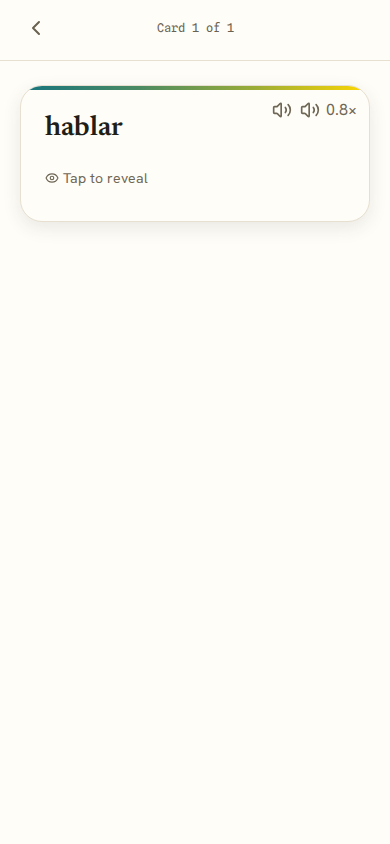
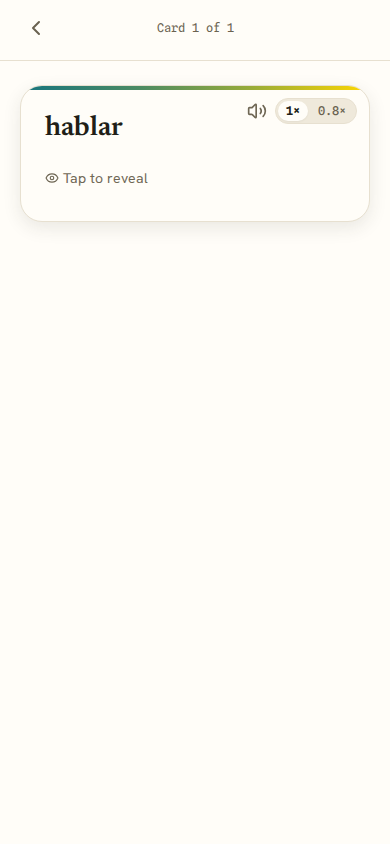
feat(tts): condense review audio to one speaker + 1×/0.8× speed-toggle pill
Replaces the two front play buttons (normal + "0.8×") on the review card with a
single speaker button plus a compact segmented speed-toggle pill (1× / 0.8×) beside
it. The selected speed drives ssmlRate for both the front and back speaker buttons
(0.8× → ssmlRate "slow"). Accessible role="group"/aria-pressed toggle inside the
existing stop-propagation container so it never flips the card. E2E spec + screenshot
updated for the new UI.

Claude-Session: https://claude.ai/code/session_01Mz14x3R1fq89gvNDaDp5Th

Changed region(s): [[0.6154, 0.0924, 0.9231, 0.154]]

diff --git a/packages/application/src/components/review/ReviewDeck.tsx b/packages/application/src/components/review/ReviewDeck.tsx
@@ -128,6 +128,7 @@ export function ReviewDeck() {
   const [currentIndex, setCurrentIndex] = useState(0);
   const [flipped, setFlipped] = useState(false);
   const [grading, setGrading] = useState(false);
+  const [rate, setRate] = useState<'1x' | '0.8x'>('1x');
   const [toast, setToast] = useState<ToastState | null>(null);
 
   const cardRef = useRef<HTMLDivElement>(null);
@@ -318,6 +319,7 @@ export function ReviewDeck() {
   const currentCard = sessionCards[currentIndex];
   const total = sessionCards.length;
   const position = currentIndex + 1;
+  const ssmlRate = rate === '0.8x' ? 'slow' : undefined;
 
   if (!currentCard) {
     // Defensive — shouldn't happen, but avoid a crash
@@ -356,13 +358,35 @@ export function ReviewDeck() {
             onClick={(e) => e.stopPropagation()}
             onKeyDown={(e) => e.stopPropagation()}
           >
-            <PlayButton text={currentCard.front} />
-            <PlayButton
-              text={currentCard.front}
-              ssmlRate="slow"
-              label="0.8×"
-              ariaLabel="Play pronunciation slowly"
-            />
+            <PlayButton text={currentCard.front} ssmlRate={ssmlRate} />
+            <div
+              className="tmn-deck-speed-toggle"
+              role="group"
+              aria-label="Playback speed"
+            >
+              <button
+                type="button"
+                className={
+                  'tmn-deck-speed-toggle__option' +
+                  (rate === '1x' ? ' tmn-deck-speed-toggle__option--active' : '')
+                }
+                aria-pressed={rate === '1x'}
+                onClick={() => setRate('1x')}
+              >
+                1×
+              </button>
+              <button
+                type="button"
+                className={
+                  'tmn-deck-speed-toggle__option' +
+                  (rate === '0.8x' ? ' tmn-deck-speed-toggle__option--active' : '')
+                }
+                aria-pressed={rate === '0.8x'}
+                onClick={() => setRate('0.8x')}
+              >
+                0.8×
+              </button>
+            </div>
           </div>
           <div className="tmn-deck-card__inner">
             <p className="tmn-deck-card__front">{currentCard.front}</p>
@@ -382,7 +406,7 @@ export function ReviewDeck() {
                   onClick={(e) => e.stopPropagation()}
                   onKeyDown={(e) => e.stopPropagation()}
                 >
-                  <PlayButton text={currentCard.back} />
+                  <PlayButton text={currentCard.back} ssmlRate={ssmlRate} />
                 </div>
                 <p className="tmn-deck-card__back">{currentCard.back}</p>
               </>

diff --git a/e2e/application/tts-playbutton.spec.ts b/e2e/application/tts-playbutton.spec.ts
@@ -107,18 +107,32 @@ test.describe('M18.3 TTS play button', () => {
       page.getByRole('button', { name: 'Tap to reveal the answer' }),
     ).toBeVisible({ timeout: 10_000 });
 
-    // ── Front play buttons ──
+    // ── Front play button + speed toggle ──
     const frontPlay = page.getByRole('button', { name: 'Play pronunciation', exact: true });
-    const slowPlay = page.getByRole('button', { name: 'Play pronunciation slowly' });
+    const speedToggle = page.getByRole('group', { name: 'Playback speed' });
+    const speedSlow = speedToggle.getByRole('button', { name: '0.8×' });
+    const speedFast = speedToggle.getByRole('button', { name: '1×' });
     await expect(frontPlay).toBeVisible();
-    await expect(slowPlay).toBeVisible();
+    await expect(speedToggle).toBeVisible();
+    await expect(speedSlow).toBeVisible();
+    await expect(speedFast).toBeVisible();
 
-    // Screenshot of the front with play buttons (evidence)
+    // Screenshot of the front with the play button + speed toggle (evidence)
     await page.screenshot({ path: 'docs/verification/m18-3-review-playbutton.png' });
 
-    // Click front play; assert synthesize called
+    // Select 0.8× then play; assert synthesize called with ssmlRate "slow"
+    await speedSlow.click();
     await frontPlay.click();
     await expect.poll(() => synthesizeCalls, { timeout: 5_000 }).toBeGreaterThanOrEqual(1);
+    expect(synthesizeBodies.some((b) => b.includes('"ssmlRate":"slow"'))).toBe(true);
+
+    // Switch back to 1× then play; assert that play sends NO ssmlRate key
+    const callsBeforeFast = synthesizeCalls;
+    await speedFast.click();
+    await frontPlay.click();
+    await expect.poll(() => synthesizeCalls, { timeout: 5_000 }).toBeGreaterThan(callsBeforeFast);
+    expect(synthesizeBodies.slice(callsBeforeFast).some((b) => !b.includes('ssmlRate'))).toBe(true);
+
     const callsAfterFront = synthesizeCalls;
     expect(synthesizeBodies.some((b) => b.includes('hablar'))).toBe(true);
 
@@ -126,7 +140,7 @@ test.describe('M18.3 TTS play button', () => {
     await page.getByRole('button', { name: 'Tap to reveal the answer' }).click();
     await expect(page.getByRole('button', { name: 'Card revealed' })).toBeVisible({ timeout: 5_000 });
 
-    // Back play button appears (front buttons now: 2 on front + 1 on back = 3 "Play pronunciation").
+    // Back play button appears (1 on front + 1 on back = 2 "Play pronunciation").
     const backPlay = page
       .locator('.tmn-deck-card__back-audio')
       .getByRole('button', { name: 'Play pronunciation', exact: true });

diff --git a/packages/application/src/styles/review.css b/packages/application/src/styles/review.css
@@ -400,6 +400,45 @@
   color: var(--text-subtle);
 }
 
+/* Compact segmented speed toggle — sits beside the front speaker */
+.tmn-deck-speed-toggle {
+  display: inline-flex;
+  align-items: center;
+  gap: 2px;
+  padding: 2px;
+  background: var(--surface-sunken);
+  border: 1px solid var(--border-subtle);
+  border-radius: var(--radius-pill);
+}
+
+.tmn-deck-speed-toggle__option {
+  appearance: none;
+  border: none;
+  background: transparent;
+  cursor: pointer;
+  font-family: var(--font-mono);
+  font-size: var(--text-xs);
+  font-weight: var(--weight-medium);
+  color: var(--text-muted);
+  line-height: 1;
+  padding: 4px 8px;
+  border-radius: var(--radius-pill);
+  transition: background var(--dur-fast) var(--ease-soft),
+    color var(--dur-fast) var(--ease-soft);
+}
+
+.tmn-deck-speed-toggle__option:focus-visible {
+  outline: none;
+  box-shadow: var(--focus-ring);
+}
+
+.tmn-deck-speed-toggle__option--active {
+  background: var(--surface-card);
+  color: var(--text-strong);
+  font-weight: var(--weight-semibold);
+  box-shadow: var(--shadow-xs);
+}
+
 /* TTS audio control above the card back text */
 .tmn-deck-card__back-audio {
   display: flex;
